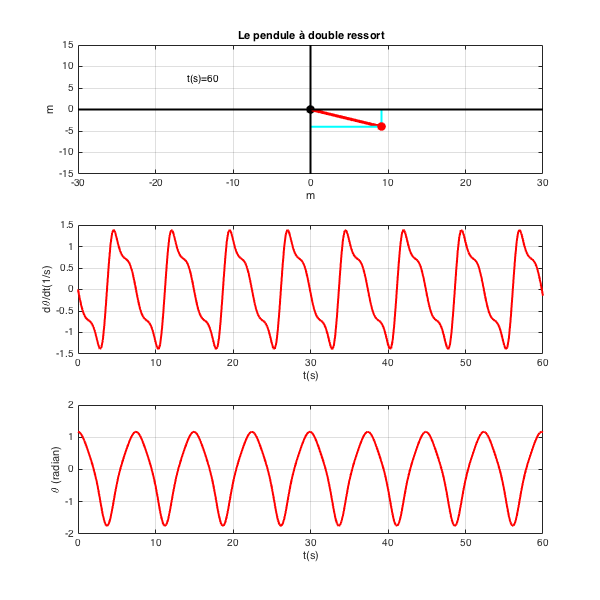
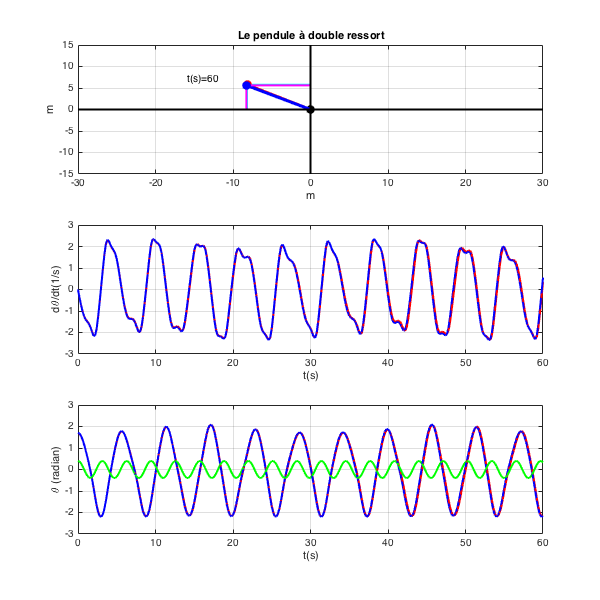
modification diagrammes base

diff --git a/Matlab/diagramme_phase.m b/Matlab/diagramme_phase.m
@@ -11,7 +11,7 @@ options = odeset('RelTol',1e-6);
   %[t,y] = ode45('pendulum_double_ressort',time,[0 j/5],options)
 
   [t,y] = ode45('pendulum_double_ressort',time,x0,options);
-  %[t,y2] = ode45('pendulum_double_ressort',time,x1,options);
+  [t,y2] = ode45('pendulum_double_ressort',time,x1,options);
   %@% [t,y3] = ode45('pendulum_double_ressort',time,x2,options);
   
    for i=2:max(size(t))
@@ -27,7 +27,7 @@ options = odeset('RelTol',1e-6);
    
    subplot(1,1,1);
    line([y(i-1,1) y(i,1)],[y(i-1,2) y(i,2)],'Color','r','LineWidth',1);
-  % line([y2(i-1,1) y2(i,1)],[y2(i-1,2) y2(i,2)],'Color','b','LineWidth',1);
+   line([y2(i-1,1) y2(i,1)],[y2(i-1,2) y2(i,2)],'Color','b','LineWidth',1);
    %@% line([y3(i-1,1) y3(i,1)],[y3(i-1,2) y3(i,2)],'Color','g','LineWidth',1);
 
    f = getframe(gcf);

diff --git a/Matlab/main.m b/Matlab/main.m
@@ -5,11 +5,11 @@
 % VERT = PENDULE 3 idem pendule si besoin (bifurcation)
 
 global k k1 k2 m l l1 l2 Longueur l0 A omega x0 x1 x2 time
-m=5;k1=5;k2=10;l=10;k=0;A=500;omega=2;l1=l/2;l2=l/2;
+m=5;k1=5;k2=10;l=10;k=0;A=200;omega=2;l1=l/2;l2=l/2;
 %%% Conditions Initiales %%%
 % note: x = [theta, theta0.]
-x0 = [1.1708 0];
-x1 = [1.15 1.8];
+x0 = [1.7 0];
+x1 = [1.71 0];
 x2 = [1.1508 0];
 
 %x0 = [0 0];
@@ -23,7 +23,7 @@ time = [0:0.2:60];
 diagramme_base()
 
 %%% DIAGRAMME DE PHASE %%%
-time = [0:0.25:50];
+time = [0:0.25:100];
 %diagramme_phase()
 
 
